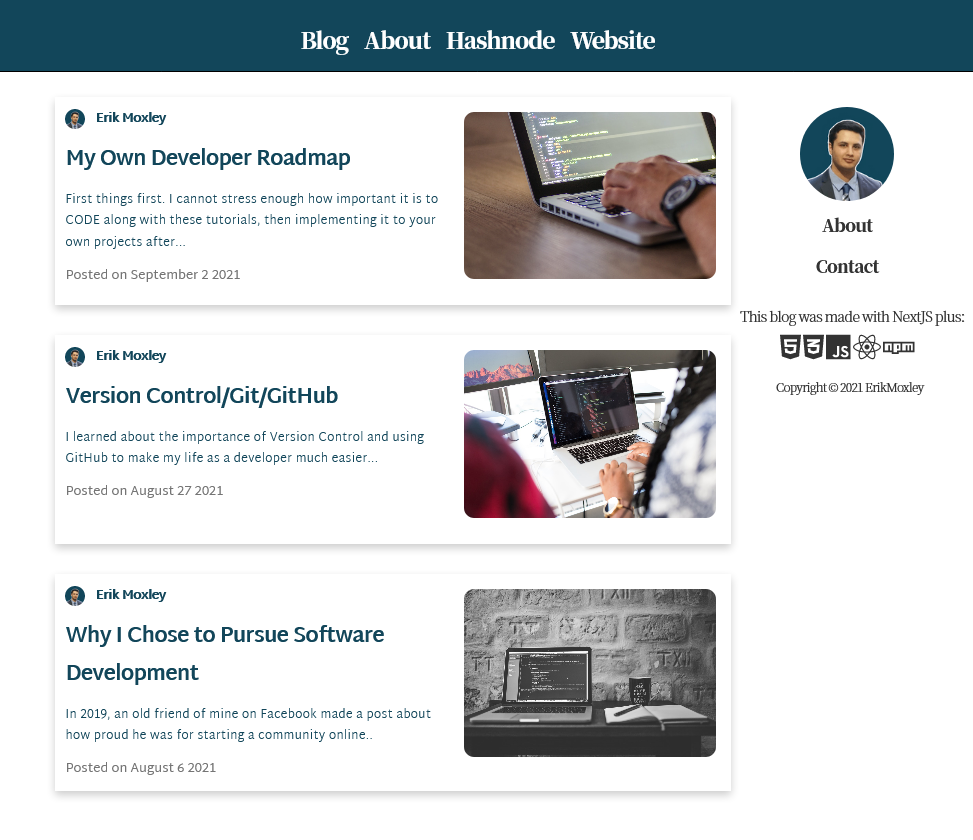
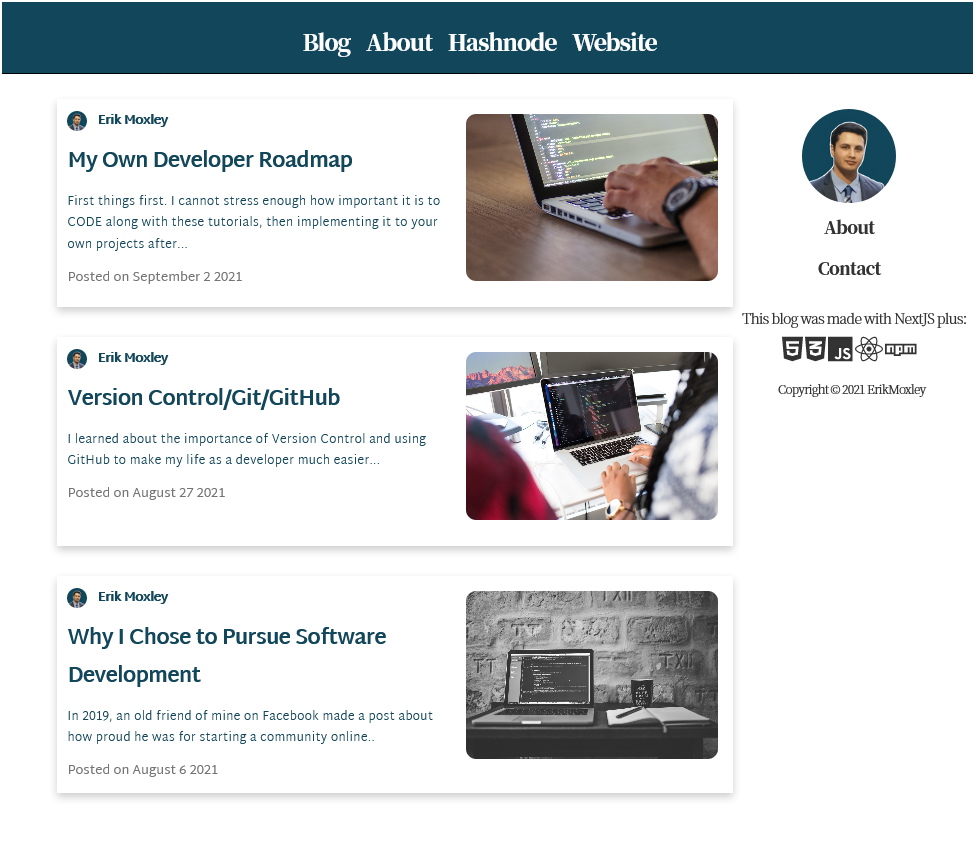
fixed img heights and made edits

diff --git a/assets/css/style.css b/assets/css/style.css
@@ -302,6 +302,8 @@ header {
 
 .port figure img {
 	max-width: 100%;
+	max-height: 100%;
+	height: 310px;
 	display: block;
 	position: relative;
 }
@@ -347,7 +349,7 @@ header {
 }
 
 .cs-style-3 figcaption {
-	height: 100px;
+	height: 90px;
 	width: 100%;
 	top: auto;
 	bottom: 0;
